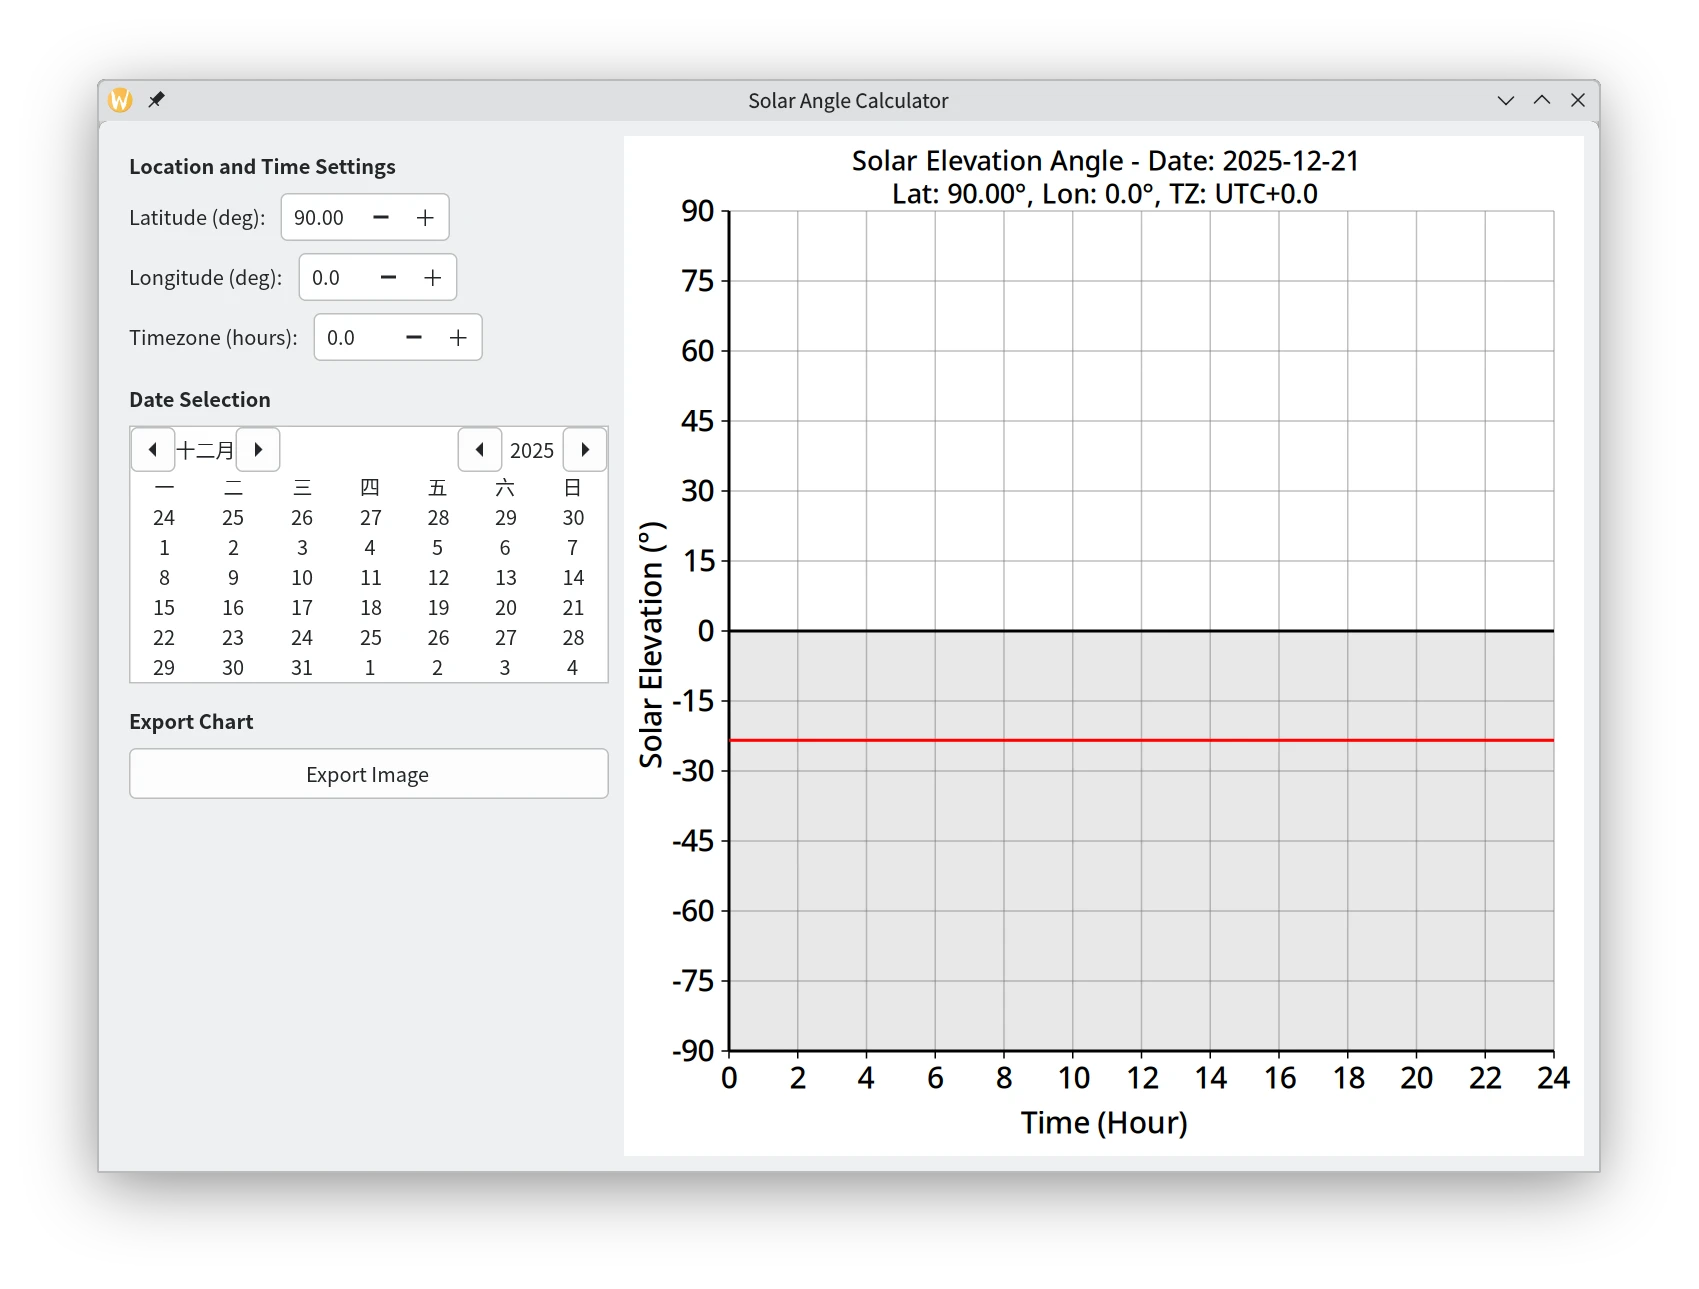
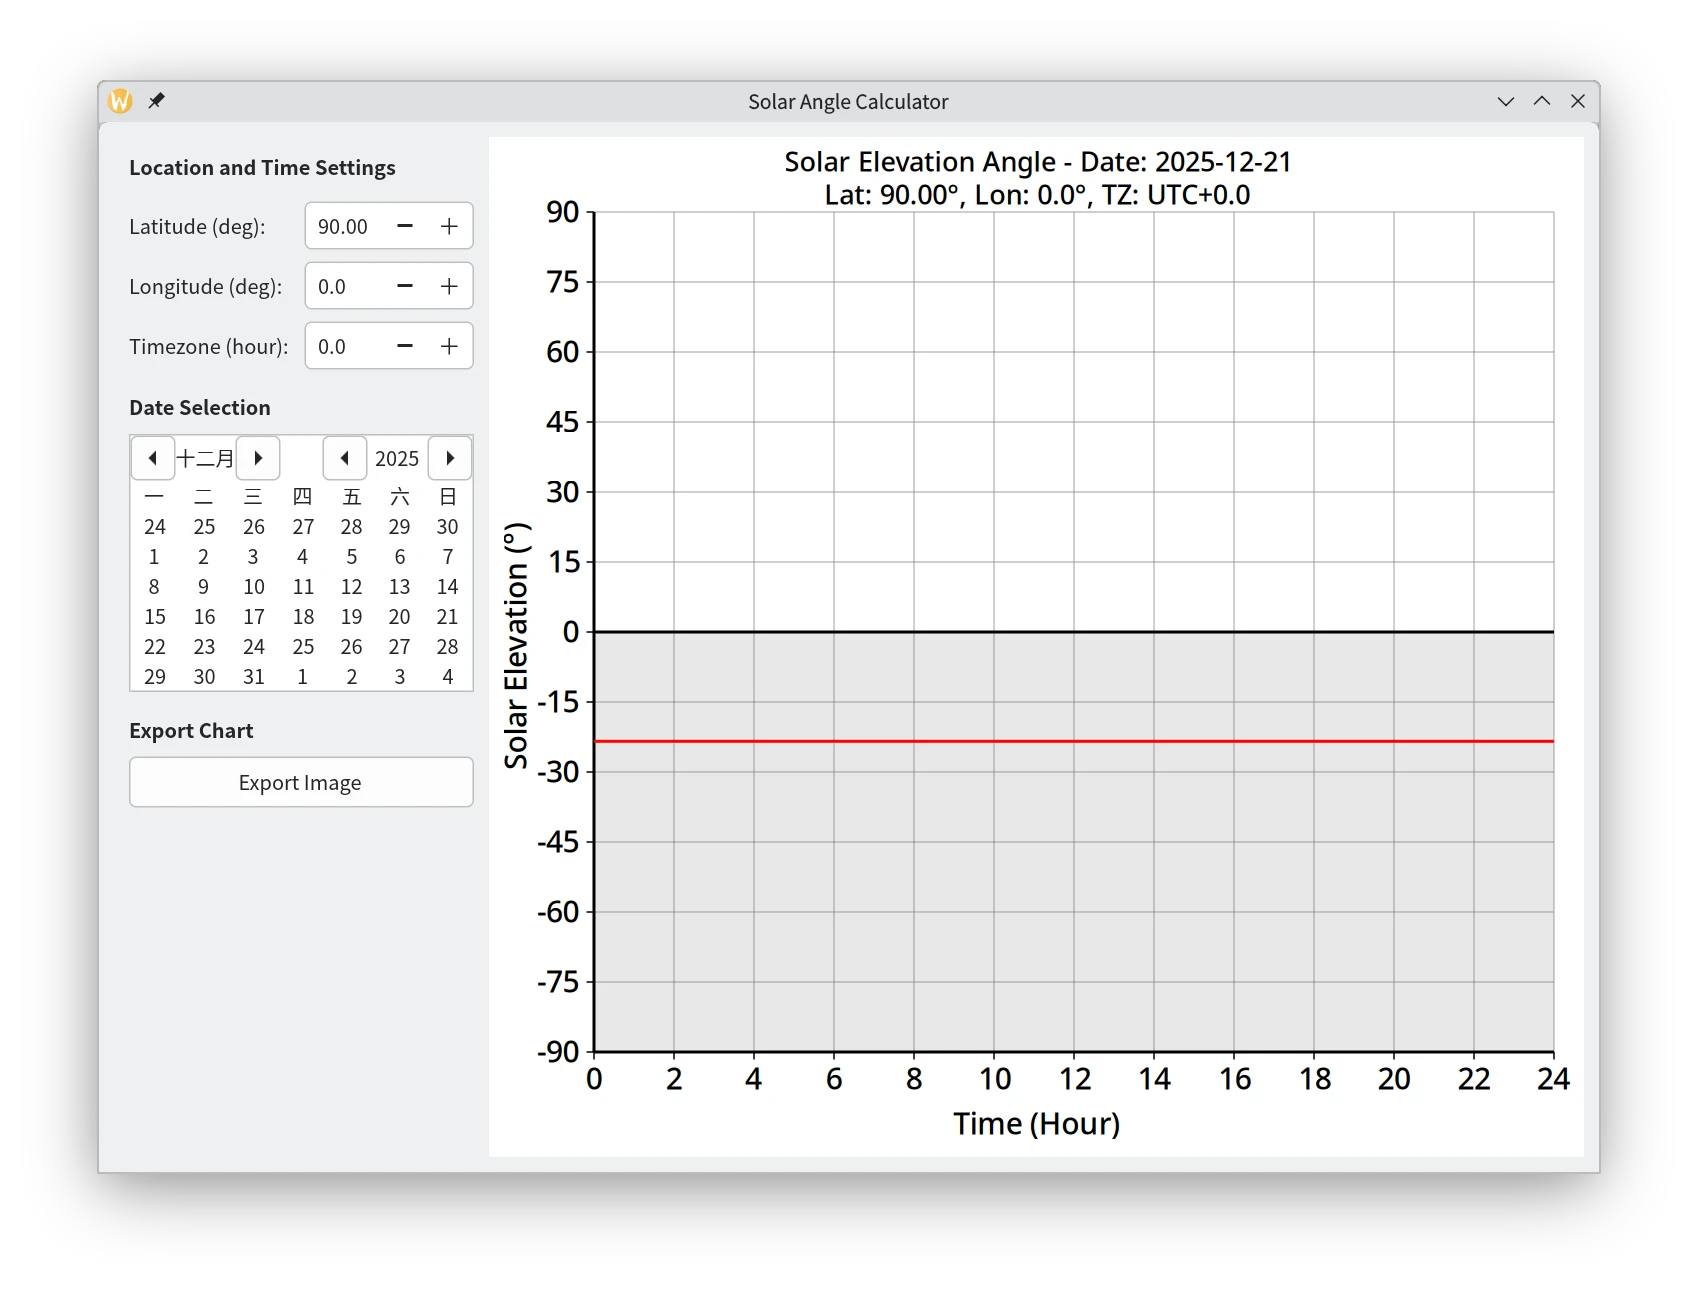
更新文档，添加太阳高度角计算与绘制工具的说明，优化程序逻辑与布局，增强用户界面组件使用示例

diff --git a/_posts/2025-02-05-GTK-Vala-Tutorial-2.md b/_posts/2025-02-05-GTK-Vala-Tutorial-2.md
@@ -553,9 +553,9 @@ public static int main (string[] args) {
 
 # 构建应用：太阳高度角计算与绘制工具
 
-在了解了白昼时长计算程序后，我们再来看一个与天文计算相关的 GTK4 应用程序。这个程序用于计算并绘制地球上任意位置（纬度、经度）、任意日期和时区下，太阳高度角随一天中时间变化的曲线。它将进一步展示 GTK4 中 `Gtk.SpinButton` 和 `Gtk.Calendar` 等组件的使用，以及 Cairo 绘图更精细的控制，例如绘制阴影区域。
+在了解了白昼时长计算程序后，我们再来看一个逻辑与布局更加复杂的 GTK4 应用程序。这个程序用于计算并绘制地球上任意位置（纬度、经度）、任意日期和时区下，太阳高度角随一天中时间变化的曲线。它将进一步展示 GTK4 中 `Gtk.SpinButton`、`Gtk.Calendar` 和 `Gtk.Grid` 等组件的使用，以及 Cairo 绘图更精细的控制，例如绘制阴影区域。
 
-为了达到更高的精度，程序现在不仅使用 [NOAA 赤纬公式](https://gml.noaa.gov/grad/solcalc/solareqns.PDF) 来计算太阳赤纬角，还引入了均时差（Equation of Time）和真太阳时（True Solar Time）的计算，以更精确地确定太阳的实际位置。该赤纬公式通过保留更多傅里叶级数项来提高精度。
+为了达到更高的精度，程序现在使用更精确的 [NOAA 赤纬公式](https://gml.noaa.gov/grad/solcalc/solareqns.PDF) 来计算太阳赤纬角，该赤纬公式通过保留更多傅里叶级数项来提高精度。笔者还引入了均时差（Equation of Time）和真太阳时（True Solar Time）的计算，以更精确地确定太阳的实际位置。
 
 该程序同样做了一些简化：
 
@@ -596,7 +596,7 @@ public static int main (string[] args) {
       $$
 
     - **均时差 (Equation of Time, EoT) 计算**：
-      `eqtime_minutes = 229.18 * (0.000075 + 0.001868 * cos(gamma_rad) ...)`：计算均时差（分钟），真太阳时（True Solar Time，基于太阳真实位置）与均太阳时（Mean Solar Time，假设太阳匀速运行）之差，主要由地球轨道偏心率和黄赤交角引起，反映钟表时间和日晷时间的偏差。将本地平时（分钟 i）修正为真太阳时（分钟），以保证后续时角、太阳高度角计算的天文精度。
+      `eqtime_minutes = 229.18 * (0.000075 + 0.001868 * cos(gamma_rad) ...)`：计算均时差（分钟），真太阳时（True Solar Time，基于太阳真实位置）与均太阳时（Mean Solar Time，假设太阳匀速运行）之差，主要由地球轨道偏心率和黄赤交角引起，反映钟表时间和日晷时间的偏差。将本地平时（分钟 `i`）修正为真太阳时（分钟），以保证后续时角、太阳高度角计算的天文精度。
         - 真太阳时：基于太阳在天空中的实际位置计算，由于地球轨道离心率和黄赤交角的影响，真太阳日的长度在一年中变化可达±30秒。
         - 平太阳时：虚构一个匀速运动的“平太阳”作为参考，将一天固定为24小时（86,400秒），消除季节性波动。这是日常钟表时间的基准。
     - **真太阳时 (True Solar Time, TST) 计算**：
@@ -613,12 +613,20 @@ public static int main (string[] args) {
 
 ## 界面与事件处理
 
-- `Gtk.SpinButton` (纬度)：范围 [-90, 90]，步长 0.1，信号 `value_changed`。
-- `Gtk.SpinButton` (经度)：范围 [-180, 180]，步长 1.0，信号 `value_changed`。
-- `Gtk.SpinButton` (时区)：范围 [-12, 14]，步长 0.5，信号 `value_changed`。
-- `Gtk.Calendar`：信号 `day_selected`。
-- 上述控件的信号均会触发 `update_plot_data ()` 并调用 `drawing_area.queue_draw ()` 重绘图表。
-- “Export Image”按钮：打开 `Gtk.FileDialog`，用户选择路径和格式后，调用 `export_chart (filepath)` 导出图表。
+- **主布局**：
+    - `main_box (Gtk.Box)`：水平布局，包含左侧控制面板和右侧绘图区域。
+    - `left_panel (Gtk.Box)`：垂直布局，用于组织各类输入控件。
+- **位置和时间设置**：
+    - 使用 `Gtk.Grid` 控件 (`settings_grid`) 来组织纬度、经度和时区设置相关的标签和 `Gtk.SpinButton` 输入框，使布局更整齐。
+        - `latitude_label` 和 `latitude_spin`：用于输入纬度，范围 [-90, 90]，步长 0.1。
+        - `longitude_label` 和 `longitude_spin`：用于输入经度，范围 [-180, 180]，步长 1.0。
+        - `timezone_label` 和 `timezone_spin`：用于输入时区，范围 [-12, 14]，步长 0.5。
+    - 每个 `Gtk.SpinButton` 的 `value_changed` 信号连接到回调函数，当值改变时，会触发 `update_plot_data ()` 并调用 `drawing_area.queue_draw ()` 重绘图表。
+- **日期选择**：
+    - `Gtk.Calendar` (`calendar`)：允许用户选择日期。
+    - `day_selected` 信号连接到回调函数，当日期被选中时，会触发 `update_plot_data ()` 并调用 `drawing_area.queue_draw ()` 重绘图表。
+- **图表导出**：
+    - “Export Image”按钮 (`export_button`)：点击后打开 `Gtk.FileDialog`，用户选择保存路径和文件格式（PNG, SVG, PDF）后，调用 `export_chart (filepath)` 导出当前绘制的图表。
 
 ## 绘图函数
 
@@ -694,7 +702,6 @@ public class SolarAngleApp : Gtk.Application {
         };
 
         var left_panel = new Gtk.Box (Gtk.Orientation.VERTICAL, 15) {
-            width_request = 320,
             hexpand = false,
             margin_start = 10,
             margin_end = 10,
@@ -709,13 +716,18 @@ public class SolarAngleApp : Gtk.Application {
         };
         location_time_group.append (location_time_label);
 
-        var latitude_box = new Gtk.Box (Gtk.Orientation.HORIZONTAL, 10);
-        var latitude_input_label = new Gtk.Label ("Latitude (deg):");
-        latitude_input_label.halign = Gtk.Align.START;
+        var settings_grid = new Gtk.Grid () {
+            column_spacing = 10,
+            row_spacing = 8,
+            margin_top = 5,
+        };
+
+        var latitude_label = new Gtk.Label ("Latitude (deg):") {
+            halign = Gtk.Align.START,
+        };
         latitude_spin = new Gtk.SpinButton.with_range (-90, 90, 0.1) {
             value = latitude,
             digits = 2,
-            width_request = 100,
         };
         latitude_spin.value_changed.connect (() => {
             latitude = latitude_spin.value;
@@ -723,46 +735,40 @@ public class SolarAngleApp : Gtk.Application {
             drawing_area.queue_draw ();
         });
 
-        latitude_box.append (latitude_input_label);
-        latitude_box.append (latitude_spin);
-        location_time_group.append (latitude_box);
-
-        // Longitude input
-        var longitude_box = new Gtk.Box (Gtk.Orientation.HORIZONTAL, 10);
-        var longitude_input_label = new Gtk.Label ("Longitude (deg):");
-        longitude_input_label.halign = Gtk.Align.START;
+        var longitude_label = new Gtk.Label ("Longitude (deg):") {
+            halign = Gtk.Align.START,
+        };
         longitude_spin = new Gtk.SpinButton.with_range (-180.0, 180.0, 1.0) {
             value = longitude,
             digits = 1,
-            width_request = 100,
         };
         longitude_spin.value_changed.connect (() => {
             longitude = longitude_spin.value;
             update_plot_data ();
             drawing_area.queue_draw ();
         });
-        longitude_box.append (longitude_input_label);
-        longitude_box.append (longitude_spin);
-        location_time_group.append (longitude_box);
 
-        // Timezone input
-        var timezone_box = new Gtk.Box (Gtk.Orientation.HORIZONTAL, 10);
-        var timezone_input_label = new Gtk.Label ("Timezone (hours):");
-        timezone_input_label.halign = Gtk.Align.START;
+        var timezone_label = new Gtk.Label ("Timezone (hour):") {
+            halign = Gtk.Align.START,
+        };
         timezone_spin = new Gtk.SpinButton.with_range (-12.0, 14.0, 0.5) {
             value = timezone_offset_hours,
             digits = 1,
-            width_request = 100,
         };
         timezone_spin.value_changed.connect (() => {
             timezone_offset_hours = timezone_spin.value;
             update_plot_data ();
             drawing_area.queue_draw ();
         });
-        timezone_box.append (timezone_input_label);
-        timezone_box.append (timezone_spin);
-        location_time_group.append (timezone_box);
 
+        settings_grid.attach (latitude_label, 0, 0, 1, 1);
+        settings_grid.attach (latitude_spin, 1, 0, 1, 1);
+        settings_grid.attach (longitude_label, 0, 1, 1, 1);
+        settings_grid.attach (longitude_spin, 1, 1, 1, 1);
+        settings_grid.attach (timezone_label, 0, 2, 1, 1);
+        settings_grid.attach (timezone_spin, 1, 2, 1, 1);
+
+        location_time_group.append (settings_grid);
 
         var date_group = new Gtk.Box (Gtk.Orientation.VERTICAL, 8);
         var date_label = new Gtk.Label ("<b>Date Selection</b>") {
@@ -835,19 +841,19 @@ public class SolarAngleApp : Gtk.Application {
 
             // Solar declination delta (rad) via Fourier series approximation
             double decl_rad = 0.006918
-                - 0.399912 * Math.cos(gamma_rad)
-                + 0.070257 * Math.sin(gamma_rad)
-                - 0.006758 * Math.cos(2.0 * gamma_rad)
-                + 0.000907 * Math.sin(2.0 * gamma_rad)
-                - 0.002697 * Math.cos(3.0 * gamma_rad)
-                + 0.001480 * Math.sin(3.0 * gamma_rad);
+                - 0.399912 * Math.cos (gamma_rad)
+                + 0.070257 * Math.sin (gamma_rad)
+                - 0.006758 * Math.cos (2.0 * gamma_rad)
+                + 0.000907 * Math.sin (2.0 * gamma_rad)
+                - 0.002697 * Math.cos (3.0 * gamma_rad)
+                + 0.001480 * Math.sin (3.0 * gamma_rad);
 
             // Equation of Time (EoT) in minutes
             double eqtime_minutes = 229.18 * (0.000075
-                + 0.001868 * Math.cos(gamma_rad)
-                - 0.032077 * Math.sin(gamma_rad)
-                - 0.014615 * Math.cos(2.0 * gamma_rad)
-                - 0.040849 * Math.sin(2.0 * gamma_rad));
+                + 0.001868 * Math.cos (gamma_rad)
+                - 0.032077 * Math.sin (gamma_rad)
+                - 0.014615 * Math.cos (2.0 * gamma_rad)
+                - 0.040849 * Math.sin (2.0 * gamma_rad));
 
             // True Solar Time (TST) in minutes, correcting local clock by EoT and longitude
             double tst_minutes = i + eqtime_minutes - 4.0 * (longitude_deg - 15.0 * timezone_offset_hrs);
@@ -857,12 +863,12 @@ public class SolarAngleApp : Gtk.Application {
             double ha_rad = ha_deg * DEG2RAD;
 
             // cos(phi): cosine of zenith angle via spherical trig
-            double cos_phi = sin_lat * Math.sin(decl_rad) + cos_lat * Math.cos(decl_rad) * Math.cos(ha_rad);
+            double cos_phi = sin_lat * Math.sin (decl_rad) + cos_lat * Math.cos (decl_rad) * Math.cos(ha_rad);
             // clamp to valid range
             if (cos_phi > 1.0) cos_phi = 1.0;
             if (cos_phi < -1.0) cos_phi = -1.0;
             // Zenith angle phi (rad)
-            double phi_rad = Math.acos(cos_phi);
+            double phi_rad = Math.acos (cos_phi);
 
             // Solar elevation alpha = 90° - phi, convert to degrees
             double solar_elevation_rad = Math.PI / 2.0 - phi_rad;
